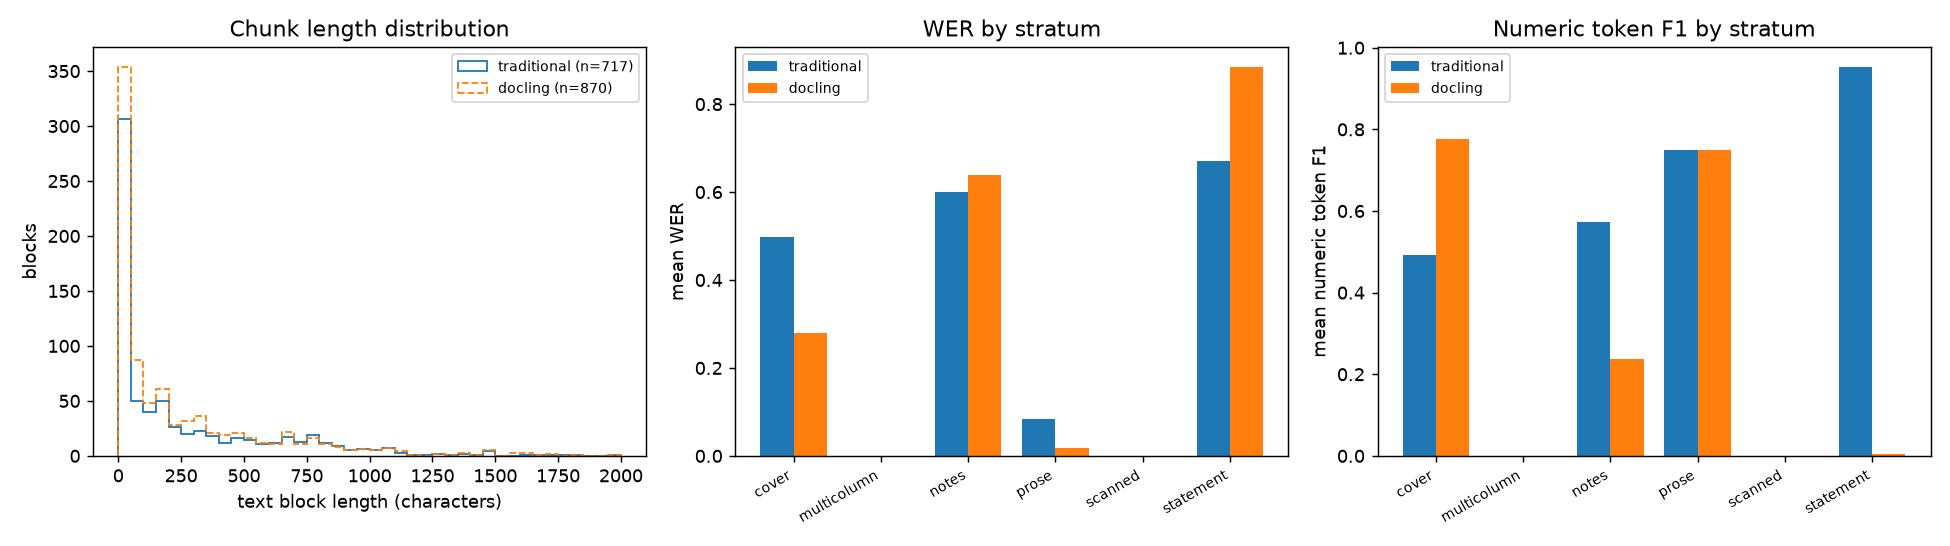
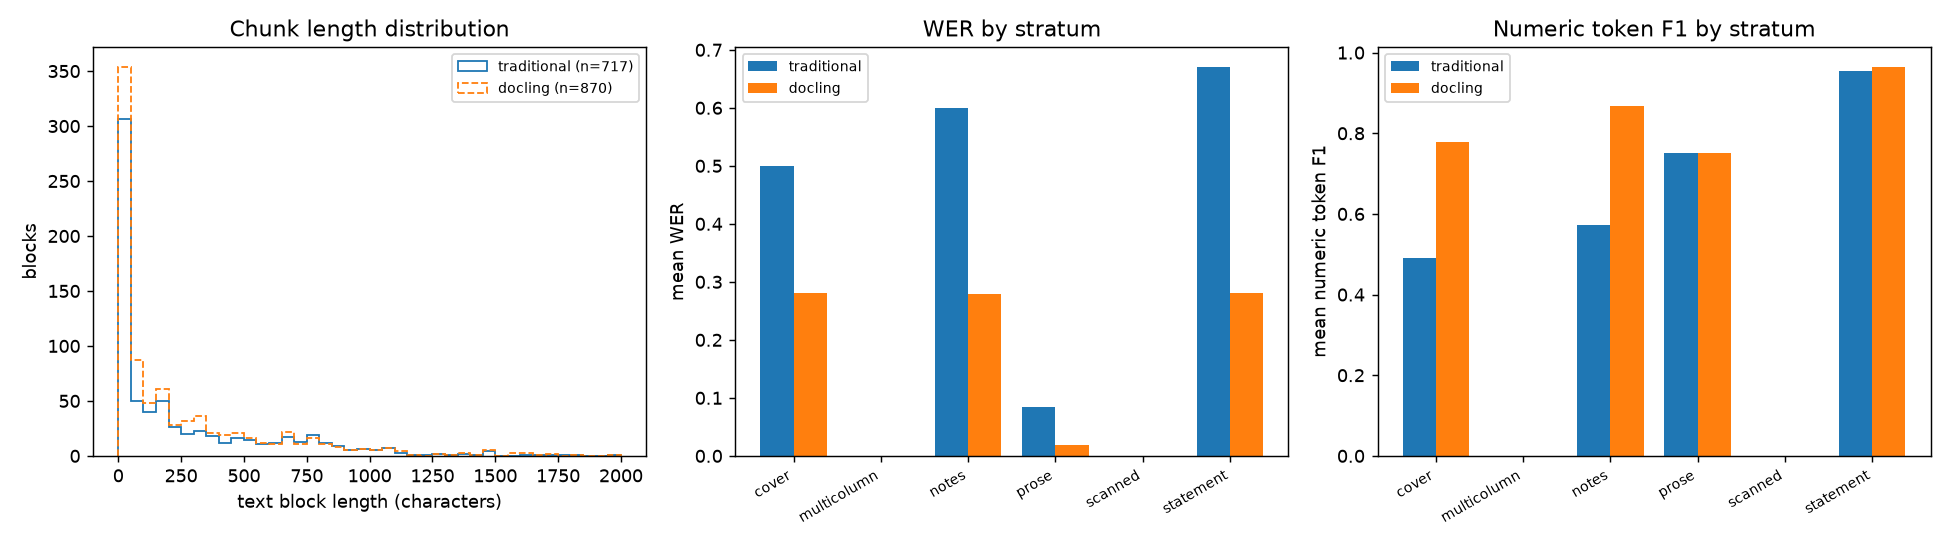
[P5][P9] export and score Docling tables

diff --git a/src/export.py b/src/export.py
@@ -21,6 +21,7 @@ RENDERED_DIR = Path("data/rendered")
 LAYOUT_DIR = Path(EXPORT.get("layout_dir", "data/layout"))
 DOCLING_DIR = Path(EXPORT.get("docling_dir", "data/docling"))
 TABLES_DIR = Path(EXPORT.get("tables_dir", "data/tables"))
+DOCLING_TABLES_DIR = Path(EXPORT.get("docling_tables_dir", str(DOCLING_DIR / "tables")))
 EXPORT_DIR = Path(EXPORT.get("out_dir", "data/export"))
 FALLBACK_LOG = Path(EXPORT.get("bbox_fallback_log",
                                "reports/export_bbox_fallback.csv"))
@@ -135,10 +136,17 @@ def table_bbox_for(page, tk, boxes, page_tables, sizes):
     return [0.0, 0.0, float(w), float(h)], "page", note
 
 
-def table_blocks(manifest_row, stem, table_bbox, sizes):
+def table_blocks(manifest_row, stem, table_bbox, sizes, tables_dir=TABLES_DIR,
+                 method=None, log_stem=None):
+    """Contract-format table CSVs -> schema Table blocks, for either path.
+
+    Part 2's data/tables looks the method up per page in the tables log;
+    Part 4's data/docling/tables passes method="docling". Same reader for both,
+    so both paths reach the schema by the same route.
+    """
     blocks, fallbacks = [], []
-    methods = table_methods()
-    paths = sorted(glob.glob(str(TABLES_DIR / f"{stem}_p*_t*.csv")))
+    methods = table_methods() if method is None else {}
+    paths = sorted(glob.glob(str(Path(tables_dir) / f"{stem}_p*_t*.csv")))
     page_counts = {}
     for p in paths:
         pg = int(re.search(r"_p(\d+)_", Path(p).stem).group(1))
@@ -156,13 +164,22 @@ def table_blocks(manifest_row, stem, table_bbox, sizes):
         block_id = f"p{page:04d}_b{900 + tk:03d}"
         if precision != "detected":
             fallbacks.append({
-                "stem": stem, "page": page, "block_id": block_id,
+                "stem": log_stem or stem, "page": page, "block_id": block_id,
                 "precision": precision, "bbox": json.dumps(bbox), "note": note,
             })
-        method = methods.get((stem, page))
+        m = method or methods.get((stem, page))
         blocks.append(table_from_csv_rows(manifest_row, page, block_id, bbox,
-                                          rows, method))
+                                          rows, m))
     return blocks, fallbacks
+
+
+def docling_table_boxes(stem):
+    """Page -> Docling's own Table boxes, used to place the Docling table CSVs."""
+    boxes = {}
+    for rec in read_jsonl(DOCLING_DIR / f"{stem}.blocks.jsonl"):
+        if rec["block_type"] == "Table" and rec.get("bbox"):
+            boxes.setdefault(rec["page"], []).append(rec["bbox"])
+    return boxes
 
 
 def docling_blocks(manifest_row, stem):
@@ -284,6 +301,13 @@ def main():
             docling_path = DOCLING_DIR / f"{stem}.blocks.jsonl"
             if docling_path.exists():
                 doc = docling_blocks(row, stem)
+                dtbl, dfall = table_blocks(row, stem, docling_table_boxes(stem),
+                                           page_sizes(stem),
+                                           tables_dir=DOCLING_TABLES_DIR,
+                                           method="docling",
+                                           log_stem=f"{stem}.docling")
+                doc += dtbl
+                all_fallbacks += dfall
                 write_jsonl(doc, EXPORT_DIR / f"{stem}.docling.jsonl")
             else:
                 print(f"{stem}\tSKIPPED docling: missing {docling_path} "

diff --git a/src/evaluate.py b/src/evaluate.py
@@ -443,7 +443,7 @@ def main():
         page = int(page_s)
         gt = load_gt_table(gt_file)
         entry = {"page": page, "gt_columns": gt["cols"]}
-        for path_name in ("traditional", "managed"):
+        for path_name in ("traditional", "docling", "managed"):
             by_page = exports.get(stem, {}).get(path_name, {})
             found = table_records(by_page.get(page, []))
             if not found:
@@ -462,7 +462,7 @@ def main():
                 # across every path
                 "cell_raw": prf(gt["cells_raw"], hcr),
             }
-            if path_name == "traditional":
+            if path_name in ("traditional", "docling"):
                 # scale applied: also tests Part 2's normalisation. Textract
                 # does no scale normalisation, so it is not scored on this.
                 res["cell"] = prf(gt["cells"], hc)
@@ -521,7 +521,7 @@ def main():
             side[key] = {
                 p: {"cell_raw_f1": t[p]["cell_raw"]["f1"],
                     "tables_found": t[p]["tables_found"]}
-                for p in ("traditional", "managed") if p in t
+                for p in ("traditional", "docling", "managed") if p in t
             }
     results["side_by_side"] = side
 

diff --git a/src/adapters.py b/src/adapters.py
@@ -31,7 +31,8 @@ def extractor_version(method):
         return f"{pkg} {version(pkg)}"
     except PackageNotFoundError:
         return pkg
-
+    
+PACKAGE.setdefault("docling", "docling")
 
 def _base_meta(manifest_row):
     return {
